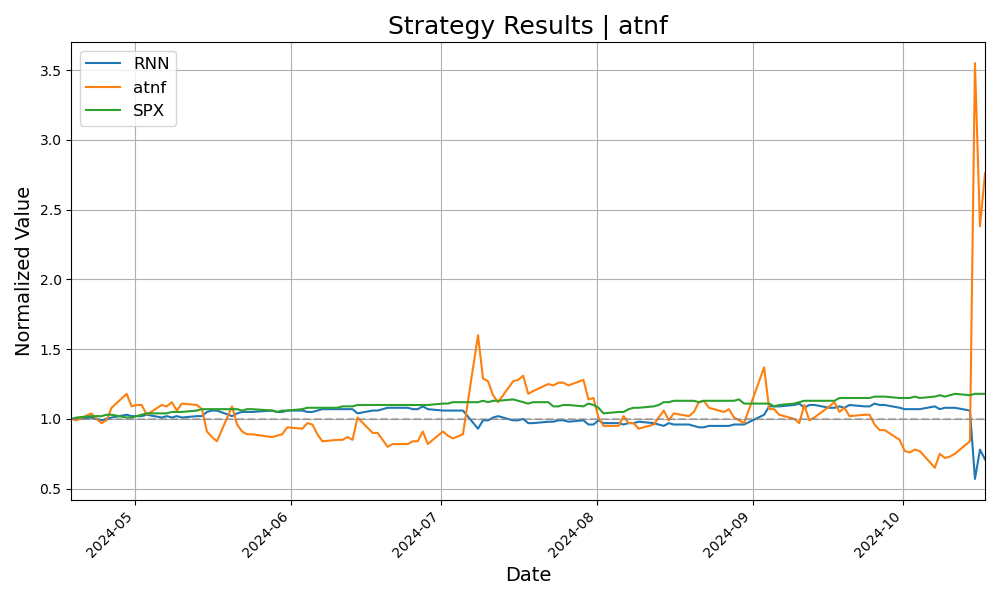
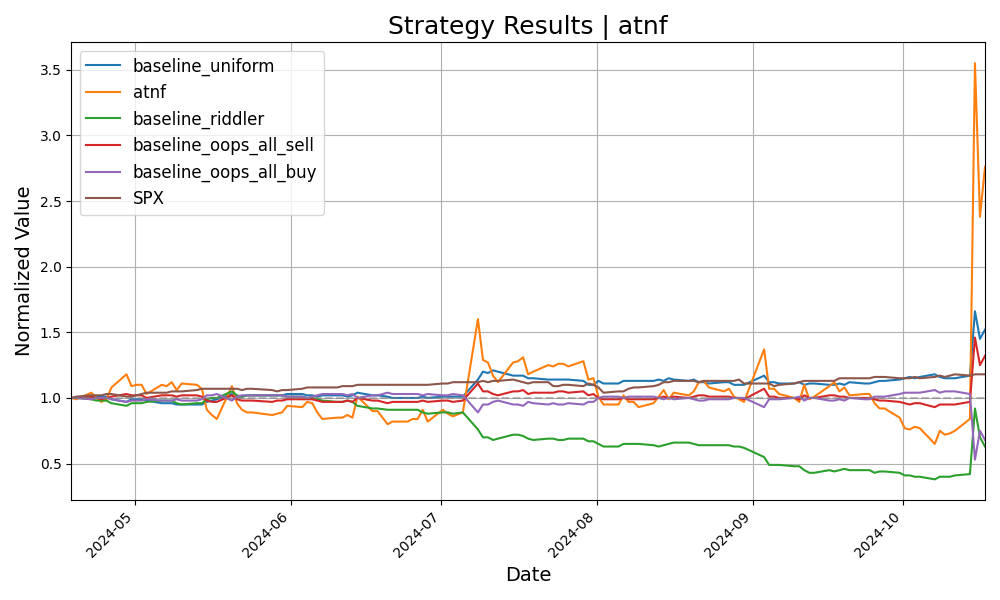
baselines

diff --git a/run.py b/run.py
@@ -2,6 +2,7 @@ from collections import namedtuple
 
 import pandas as pd
 import torch as th
+from src.models.baselines import RiddlerModel
 from src.models.rnn import RNN
 from src.models.sttransformer import STTransformer
 from src.models.lnn import LNN, LNN_NCPS
@@ -11,7 +12,17 @@ from training_tools.utils import plot_simulation_result
 
 import yaml
 
-MODEL_TYPES = {'rnn':RNN, 'transformer':STTransformer, 'lnn':LNN, 'lnn_cfc': CfC_LNN, 'lnn_ncps': LNN_NCPS}
+MODEL_TYPES = {
+    'rnn':RNN, 
+    'transformer':STTransformer, 
+    'lnn':LNN, 
+    'lnn_cfc': CfC_LNN, 
+    'lnn_ncps': LNN_NCPS,
+    'baseline_riddler': RiddlerModel,
+    'baseline_uniform': RiddlerModel,
+    'baseline_oops_all_sell': RiddlerModel,
+    'baseline_oops_all_buy': RiddlerModel,
+}
 Model = namedtuple('Model', ['key', 'classname', 'params', 'trainer_params', 'device'])
 
 
@@ -27,8 +38,13 @@ def run():
     for m in config_data['model_types']:
         if m not in MODEL_TYPES:
             raise ValueError('Model type must be one of: ' + str(MODEL_TYPES))
+        
+        trainer_param_prefix = m
+        if str.startswith(m, 'baseline'):
+            trainer_param_prefix = 'baseline'
+
         params = config_data[m]
-        trainer_params = config_data[m+'_trainer']
+        trainer_params = config_data[trainer_param_prefix+'_trainer']
         models.append(Model(m, MODEL_TYPES[m], params, trainer_params, device))
 
     if 'train' in config_data['mode']:
@@ -52,7 +68,8 @@ def run():
                 model_params=m.params,
                 trainer_params=m.trainer_params,
                 seed=1984,
-                split=split)
+                split=split,
+                key=m.key)
 
             print('Avg Test Loss:',eval_res[4],
                 '\nTest Accuracy:', eval_res[5],

diff --git a/src/models/baselines.py b/src/models/baselines.py
@@ -1,9 +1,32 @@
-from abstract_model import AbstractModel
+from .abstract_model import AbstractModel
 import torch
+import numpy as np
 
-class UniformRandomModel(AbstractModel):
-    def __init__(self, **kwargs):
-        super(UniformRandomModel, self).__init__(**kwargs)
+
+class RiddlerModel(AbstractModel):
+    '''
+    This model makes probabilistic decisions
+    around buys, sells, and holding. This way
+    we can use our intuitions about what the best
+    rate should be, and test our models against
+    that baseline.
+    '''
+    def __init__(self, d_features: int, device: torch.device, buy_percent=0.25, sell_percent=0.70, hold_percent=0.05, **kwargs):
+        super(RiddlerModel, self).__init__(d_features, device)
+
+        self.these_parameters_do_nothing = torch.nn.Parameter(torch.ones((84, 84)), requires_grad=True)
+
+        self.percents = torch.Tensor([buy_percent, hold_percent, sell_percent]).to(self.device)
+        
+        if self.percents.sum() != 1.0:
+            self.percents = torch.nn.functional.softmax(self.percents, dim=-1)
 
     def forward(self, x: torch.Tensor):
-        ''''''
+        N, _, _ = x.shape
+
+        output = torch.ones((N, 3)) * .42
+
+        rand_ind = np.random.choice(3, N, p=self.percents.numpy())
+        output[torch.arange(N), rand_ind] *= 4
+
+        return output.to(self.device)

diff --git a/src/training.py b/src/training.py
@@ -100,21 +100,20 @@ def train_model(
         simulate=True
     )
     # rename the value column to be the model type
-    model_name = model.__class__.__name__[0:3]
+    model_name = kwargs['key'] if 'key' in kwargs else model.__class__.__name__
     sim_df.rename(
         columns={"value": model_name, "price": symbol},
         inplace=True
     )
 
-    # Add first three characters of the model name to the DataFrame
-    # sim_df["model"] = model.__class__.__name__[0:3]
+    # Add first thr ee characters of the model name to the DataFrame
 
     if writer is not None:
         writer.add_scalar("Loss/test", test_loss_avg, epochs)
         writer.add_scalar("Accuracy/test", test_acc, epochs)
         writer.add_scalar("F1/test", test_f1, epochs)
         writer.add_scalar("MCC/test", test_mcc, epochs)
-
+ 
         # We can also compute cumulative returns and add that to the tensorboard
         cum_ret = (sim_df[model_name].iloc[-1] - sim_df[model_name].iloc[0]) / sim_df[model_name].iloc[0]
         writer.add_scalar("Simulation/Cumulative Return", cum_ret, epochs)
